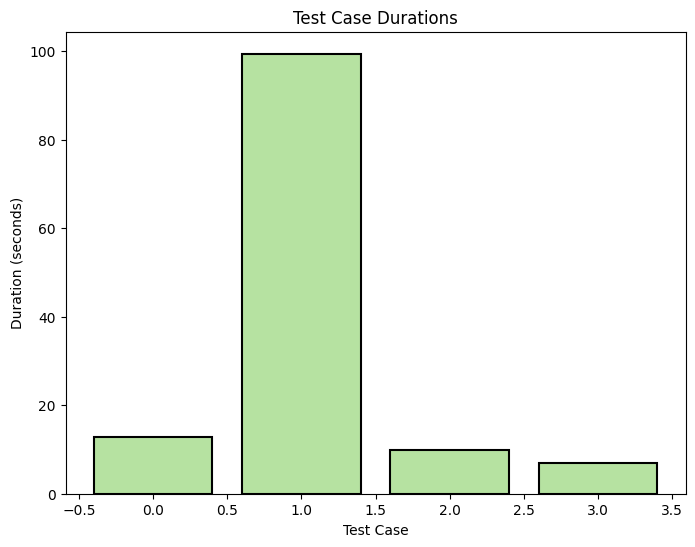
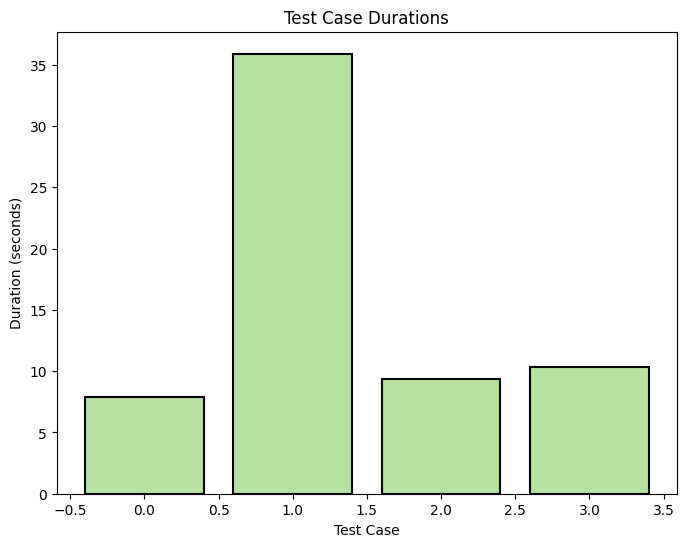
update 5

diff --git a/log.html b/log.html
@@ -1806,25 +1806,25 @@ function stopPropagation(event) {
 window.output = {};
 </script>
 <script type="text/javascript">
-window.output["suite"] = [1,2,3,0,[],[0,0,130215],[],[[4,0,0,[],[1,926,12822],[[0,5,6,0,7,8,0,0,[1,931,4032],[[936,2,9]]],[0,10,6,0,11,0,0,0,[1,4973,355],[]],[0,12,6,0,13,14,0,0,[1,5393,567],[[5399,2,15]]],[0,12,6,0,13,16,0,0,[1,5992,1298],[[5999,2,17]]],[0,12,6,0,13,18,0,0,[1,7297,631],[[7302,2,19]]],[0,20,6,0,21,22,0,0,[1,7929,189],[[7932,2,23],[8015,2,24],[8117,2,25]]],[0,20,6,0,21,26,0,0,[1,8128,305],[[8134,2,27],[8278,2,24],[8432,2,25]]],[0,28,6,0,29,30,0,0,[1,8443,349],[[8446,2,31]]],[0,32,6,0,33,34,0,0,[1,8796,360],[[8800,2,35]]],[0,36,6,0,37,38,39,0,[1,9224,294],[[9516,2,40]]],[0,41,42,0,43,44,0,0,[1,9544,4],[]],[0,45,6,0,46,0,0,0,[1,9569,4173],[]]]],[47,0,0,[],[0,13795,99378,48],[[0,5,6,0,7,8,0,0,[1,13797,6429],[[13799,2,9]]],[0,10,6,0,11,0,0,0,[1,20235,494],[]],[0,12,6,0,13,49,0,0,[1,20746,277],[[20750,2,50]]],[0,12,6,0,13,51,0,0,[1,21029,281],[[21034,2,52]]],[0,12,6,0,13,18,0,0,[1,21312,196],[[21316,2,19]]],[0,20,6,0,21,22,0,0,[1,21510,797],[[21514,2,23],[21912,2,24],[22306,2,25]]],[0,20,6,0,21,26,0,0,[1,22321,526],[[22324,2,27],[22564,2,24],[22845,2,25]]],[0,28,6,0,29,30,0,0,[1,22872,299],[[22875,2,31]]],[0,32,6,0,33,34,0,0,[1,23172,669],[[23176,2,35]]],[0,53,6,0,54,55,0,0,[0,23844,89320],[[30344,2,56],[30345,5,48]]],[0,45,6,0,46,0,0,0,[3,113166,1],[]]]],[57,0,0,[],[1,113177,9980],[[0,5,6,0,7,8,0,0,[1,113188,6113],[[113188,2,9]]],[0,10,6,0,11,0,0,0,[1,119304,144],[]],[0,12,6,0,13,58,0,0,[1,119449,186],[[119452,2,59]]],[0,12,6,0,13,60,0,0,[1,119637,148],[[119638,2,61]]],[0,12,6,0,13,18,0,0,[1,119789,136],[[119796,2,19]]],[0,20,6,0,21,22,0,0,[1,119934,242],[[119937,2,23],[119988,2,24],[120173,2,25]]],[0,20,6,0,21,26,0,0,[1,120185,165],[[120187,2,27],[120240,2,24],[120350,2,25]]],[0,28,6,0,29,30,0,0,[1,120365,90],[[120369,2,31]]],[0,32,6,0,33,34,0,0,[1,120457,407],[[120461,2,35]]],[0,62,6,0,63,64,65,0,[1,120880,82],[[120961,2,66]]],[0,67,42,0,68,69,0,0,[1,120964,3],[]],[0,45,6,0,46,0,0,0,[1,120969,2184],[]]]],[70,0,0,[],[1,123166,7042],[[0,5,6,0,7,8,0,0,[1,123170,3169],[[123174,2,9]]],[0,10,6,0,11,0,0,0,[1,126348,146],[]],[0,12,6,0,13,71,0,0,[1,126498,145],[[126499,2,72]]],[0,12,6,0,13,73,0,0,[1,126647,115],[[126649,2,74]]],[0,12,6,0,13,18,0,0,[1,126764,117],[[126769,2,19]]],[0,20,6,0,21,22,0,0,[1,126885,122],[[126889,2,23],[126938,2,24],[127007,2,25]]],[0,20,6,0,21,26,0,0,[1,127018,140],[[127018,2,27],[127073,2,24],[127158,2,25]]],[0,28,6,0,29,30,0,0,[1,127164,84],[[127167,2,31]]],[0,32,6,0,33,34,0,0,[1,127251,125],[[127253,2,35]]],[0,36,6,0,37,75,39,0,[1,127385,223],[[127608,2,40]]],[0,41,42,0,43,44,0,0,[1,127623,3],[]],[0,45,6,0,46,0,0,0,[1,127633,2573],[]]]]],[],[4,3,1,0]];
+window.output["suite"] = [1,2,3,0,[],[0,0,64033],[],[[4,0,0,[],[1,560,7867],[[0,5,6,0,7,8,0,0,[1,562,4461],[[567,2,9]]],[0,10,6,0,11,0,0,0,[1,5025,143],[]],[0,12,6,0,13,14,0,0,[1,5170,195],[[5175,2,15]]],[0,12,6,0,13,16,0,0,[1,5366,117],[[5368,2,17]]],[0,12,6,0,13,18,0,0,[1,5486,103],[[5487,2,19]]],[0,20,6,0,21,22,0,0,[1,5590,118],[[5593,2,23],[5628,2,24],[5708,2,25]]],[0,20,6,0,21,26,0,0,[1,5722,159],[[5725,2,27],[5809,2,24],[5880,2,25]]],[0,28,6,0,29,30,0,0,[1,5881,51],[[5885,2,31]]],[0,32,6,0,33,34,0,0,[1,5932,80],[[5935,2,35]]],[0,36,6,0,37,38,39,0,[1,6020,177],[[6196,2,40]]],[0,41,42,0,43,44,0,0,[1,6198,2],[]],[0,45,6,0,46,0,0,0,[1,6213,2213],[]]]],[47,0,0,[],[0,8431,35901,48],[[0,5,6,0,7,8,0,0,[1,8433,3498],[[8435,2,9]]],[0,10,6,0,11,0,0,0,[1,11932,126],[]],[0,12,6,0,13,49,0,0,[1,12059,134],[[12063,2,50]]],[0,12,6,0,13,51,0,0,[1,12194,97],[[12196,2,52]]],[0,12,6,0,13,18,0,0,[1,12292,83],[[12294,2,19]]],[0,20,6,0,21,22,0,0,[1,12375,85],[[12377,2,23],[12409,2,24],[12459,2,25]]],[0,20,6,0,21,26,0,0,[1,12460,99],[[12464,2,27],[12513,2,24],[12559,2,25]]],[0,28,6,0,29,30,0,0,[1,12560,102],[[12563,2,31]]],[0,32,6,0,33,34,0,0,[1,12663,469],[[12666,2,35]]],[0,53,6,0,54,55,0,0,[0,13137,31190],[[18635,2,56],[18636,5,48]]],[0,45,6,0,46,0,0,0,[3,44328,1],[]]]],[57,0,0,[],[1,44336,9361],[[0,5,6,0,7,8,0,0,[1,44337,5924],[[44341,2,9]]],[0,10,6,0,11,0,0,0,[1,50263,132],[]],[0,12,6,0,13,58,0,0,[1,50396,142],[[50398,2,59]]],[0,12,6,0,13,60,0,0,[1,50540,113],[[50543,2,61]]],[0,12,6,0,13,18,0,0,[1,50655,97],[[50656,2,19]]],[0,20,6,0,21,22,0,0,[1,50753,94],[[50754,2,23],[50788,2,24],[50847,2,25]]],[0,20,6,0,21,26,0,0,[1,50848,105],[[50851,2,27],[50891,2,24],[50953,2,25]]],[0,28,6,0,29,30,0,0,[1,50954,52],[[50956,2,31]]],[0,32,6,0,33,34,0,0,[1,51006,325],[[51009,2,35]]],[0,62,6,0,63,64,65,0,[1,51332,224],[[51555,2,66]]],[0,67,42,0,68,69,0,0,[1,51557,2],[]],[0,45,6,0,46,0,0,0,[1,51561,2135],[]]]],[70,0,0,[],[1,53701,10315],[[0,5,6,0,7,8,0,0,[1,53702,7142],[[53704,2,9]]],[0,10,6,0,11,0,0,0,[1,60845,122],[]],[0,12,6,0,13,71,0,0,[1,60971,109],[[60975,2,72]]],[0,12,6,0,13,73,0,0,[1,61082,130],[[61084,2,74]]],[0,12,6,0,13,18,0,0,[1,61213,92],[[61215,2,19]]],[0,20,6,0,21,22,0,0,[1,61305,90],[[61308,2,23],[61344,2,24],[61394,2,25]]],[0,20,6,0,21,26,0,0,[1,61401,101],[[61404,2,27],[61448,2,24],[61501,2,25]]],[0,28,6,0,29,30,0,0,[1,61504,101],[[61505,2,31]]],[0,32,6,0,33,34,0,0,[1,61606,65],[[61609,2,35]]],[0,36,6,0,37,75,39,0,[1,61675,37],[[61712,2,40]]],[0,41,42,0,43,44,0,0,[1,61713,1],[]],[0,45,6,0,46,0,0,0,[1,61715,2299],[]]]]],[],[4,3,1,0]];
 </script>
 <script type="text/javascript">
 window.output["strings"] = [];
 </script>
 <script type="text/javascript">
[2 lines of base64/hex data omitted]
 </script>
 <script type="text/javascript">
-window.output["stats"] = [[{"elapsed":"00:02:09","fail":1,"label":"All Tests","pass":3,"skip":0}],[],[{"elapsed":"00:02:10","fail":1,"id":"s1","label":"Testcases","name":"Testcases","pass":3,"skip":0}]];
+window.output["stats"] = [[{"elapsed":"00:01:03","fail":1,"label":"All Tests","pass":3,"skip":0}],[],[{"elapsed":"00:01:04","fail":1,"id":"s1","label":"Testcases","name":"Testcases","pass":3,"skip":0}]];
 </script>
 <script type="text/javascript">
 window.output["errors"] = [];
 </script>
 <script type="text/javascript">
-window.output["baseMillis"] = 1687698012732;
+window.output["baseMillis"] = 1687853435857;
 </script>
 <script type="text/javascript">
-window.output["generated"] = 130330;
+window.output["generated"] = 64104;
 </script>
 <script type="text/javascript">
 window.output["expand_keywords"] = null;

diff --git a/templates/dashboard.html b/templates/dashboard.html
@@ -1,8 +1,9 @@
 <!DOCTYPE html>
 <html>
 <head>
-    <title>VisDat</title>
+    <title>Menampilkan Bagian Tertentu dari Halaman HTML</title>
     <style>
+        /* CSS styling untuk tampilan hasil */
         body {
             background-color: #15202B;
             font-family: Arial, sans-serif;
@@ -54,6 +55,32 @@
             color: #FFF;
             margin-bottom: 30px;
         }
+
+        .dashboard-links {
+            background-color: #253746;
+            border-radius: 5px;
+            box-shadow: 0 2px 5px rgba(0, 0, 0, 0.2);
+            padding: 20px;
+            color: #FFF;
+            grid-column: span 3;
+        }
+
+        .dashboard-links a {
+            display: block;
+            margin-bottom: 10px;
+            color: #FFF;
+            text-decoration: none;
+        }
+
+        /* Responsiveness */
+        @media screen and (max-width: 768px) {
+            .dashboard-container {
+                grid-template-columns: repeat(1, 1fr);
+            }
+            .dashboard-links {
+                grid-column: span 1;
+            }
+        }
     </style>
 </head>
 <body>
@@ -61,18 +88,24 @@
     <div class="dashboard-container">
         <div class="dashboard-item">
             <h2 class="dashboard-title">Laporan Status Tes 1</h2>
-            <img class="dashboard-image" src="static/status_report.png" alt="Laporan Status Tes 1">
+            <img class="dashboard-image" src="{{ url_for('static', filename='status_report.png') }}" alt="Laporan Status Tes 1">
             <p class="dashboard-description">Deskripsi laporan status tes 1.</p>
         </div>
         <div class="dashboard-item">
             <h2 class="dashboard-title">Laporan Status Tes 2</h2>
-            <img class="dashboard-image" src="static/test_durations.png" alt="Laporan Status Tes 2">
+            <img class="dashboard-image" src="{{ url_for('static', filename='test_durations.png') }}" alt="Laporan Status Tes 2">
             <p class="dashboard-description">Deskripsi laporan status tes 2.</p>
         </div>
         <div class="dashboard-item">
             <h2 class="dashboard-title">Laporan Status Tes 3</h2>
-            <img class="dashboard-image" src="static/comparison.png" alt="Laporan Status Tes 3">
+            <img class="dashboard-image" src="{{ url_for('static', filename='comparison.png') }}" alt="Laporan Status Tes 3">
             <p class="dashboard-description">Deskripsi laporan status tes 3.</p>
+        </div>
+        <div class="dashboard-links">
+            <h2 class="dashboard-title">Report</h2>
+            <a href="https://bit.ly/Test-Cases-SurveyAsia">Test Cases SurveyAsia</a>
+            <a href="https://bit.ly/GitHub-PengujianWebsitaSurveyAsia">GitHub Pengujian Websita SurveyAsia dengan Robot Framework</a>
+            <a href="#">Link 3</a>
         </div>
     </div>
 </body>

diff --git a/report.html b/report.html
@@ -1629,7 +1629,7 @@ storage = function () {
 window.output = {};
 </script>
 <script type="text/javascript">
-window.output["suite"] = [1,2,3,0,[],[0,0,130215],[],[[4,0,0,[],[1,926,12822],[]],[5,0,0,[],[0,13795,99378,6],[]],[7,0,0,[],[1,113177,9980],[]],[8,0,0,[],[1,123166,7042],[]]],[],[4,3,1,0]];
+window.output["suite"] = [1,2,3,0,[],[0,0,64033],[],[[4,0,0,[],[1,560,7867],[]],[5,0,0,[],[0,8431,35901,6],[]],[7,0,0,[],[1,44336,9361],[]],[8,0,0,[],[1,53701,10315],[]]],[],[4,3,1,0]];
 </script>
 <script type="text/javascript">
 window.output["strings"] = [];
@@ -1638,13 +1638,13 @@ window.output["strings"] = [];
[1 lines of base64/hex data omitted]
 </script>
 <script type="text/javascript">
-window.output["stats"] = [[{"elapsed":"00:02:09","fail":1,"label":"All Tests","pass":3,"skip":0}],[],[{"elapsed":"00:02:10","fail":1,"id":"s1","label":"Testcases","name":"Testcases","pass":3,"skip":0}]];
+window.output["stats"] = [[{"elapsed":"00:01:03","fail":1,"label":"All Tests","pass":3,"skip":0}],[],[{"elapsed":"00:01:04","fail":1,"id":"s1","label":"Testcases","name":"Testcases","pass":3,"skip":0}]];
 </script>
 <script type="text/javascript">
-window.output["baseMillis"] = 1687698012732;
+window.output["baseMillis"] = 1687853435857;
 </script>
 <script type="text/javascript">
-window.output["generated"] = 130330;
+window.output["generated"] = 64104;
 </script>
 <script type="text/javascript">
 window.output["expand_keywords"] = null;
